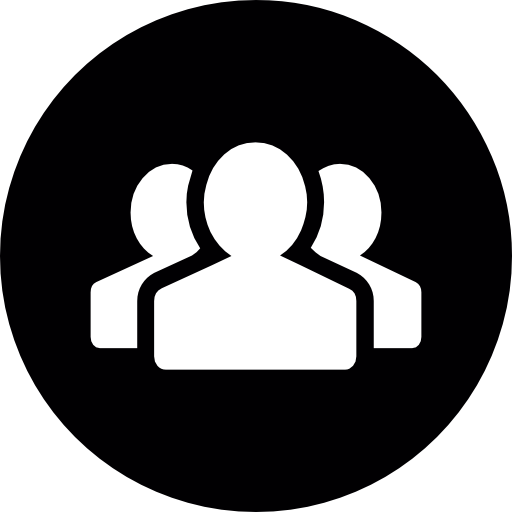
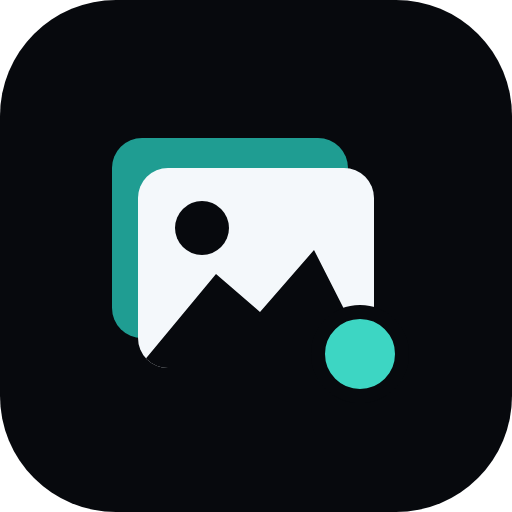
PWA: a photo-stack mark that survives being 16px
The old mark was the stock Material "groups" glyph: it said nothing about
photos and turned to mud below 64px. Three artworks now, because one cannot
serve every job - the detailed stack for app/og images, a chunkier variant
for 16-32px tabs, and a full-bleed one with the art inside the maskable
safe zone. ui/brand/make-icons.sh regenerates every binary from the SVGs
(headless Chrome rasterises SVG exactly; ImageMagick's renderer does not).

Also fixed while in the manifest: the install icon was favicon.ico, and
background_color #ffffff flashed a white splash behind a dark app on PWA
launch; og:image pointed at /favicon.ico, which no crawler can use.

diff --git a/ui/index.html b/ui/index.html
@@ -4,14 +4,19 @@
     <meta charset="utf-8">
 
     <link rel="manifest" href="/manifest.json">
-    <link rel="shortcut icon" href="/favicon.ico">
-    <link rel="apple-touch-icon" href="/icons-512.png">
+    <link rel="icon" href="/logo.svg" type="image/svg+xml">
+    <link rel="icon" href="/favicon.ico" sizes="any">
+    <link rel="icon" type="image/png" sizes="32x32" href="/favicon-32.png">
+    <link rel="icon" type="image/png" sizes="192x192" href="/icons-192.png">
+    <link rel="apple-touch-icon" href="/apple-touch-icon.png">
     <!-- Tell the browser it's a PWA -->
     <meta name="mobile-web-app-capable" content="yes">
     <!-- Tell iOS it's a PWA -->
     <meta name="apple-mobile-web-app-capable" content="yes">
+    <meta name="apple-mobile-web-app-status-bar-style" content="black-translucent">
+    <meta name="apple-mobile-web-app-title" content="PhotoGroup">
     <!-- Make sure theme-color is defined -->
-    <meta name="viewport" content="width=device-width, initial-scale=1, shrink-to-fit=no">
+    <meta name="viewport" content="width=device-width, initial-scale=1, shrink-to-fit=no, viewport-fit=cover">
     <meta name="theme-color" content="#f3f5f7">
     <link rel="preconnect" href="https://fonts.googleapis.com">
     <link rel="preconnect" href="https://fonts.gstatic.com" crossorigin>
@@ -21,9 +26,13 @@
     <meta property="og:title" content="PhotoGroup - Zero Install, Peer-to-Peer Photo Group Collaboration." />
     <meta property="og:url" content="https://www.photogroup.network" />
     <meta property="og:description" content="PhotoGroup - Zero Install, Peer-to-Peer, Lossless Photo Group Collaboration.">
-    <meta property="og:image" content="/favicon.ico">
+    <meta property="og:image" content="https://www.photogroup.network/icons-512.png">
+    <meta property="og:image:width" content="512">
+    <meta property="og:image:height" content="512">
     <meta property="og:type" content="website" />
     <meta property="og:locale" content="en_US" />
+    <meta name="twitter:card" content="summary">
+    <meta name="twitter:image" content="https://www.photogroup.network/icons-512.png">
 
     <!--
       Notice the use of %PUBLIC_URL% in the tags above.
